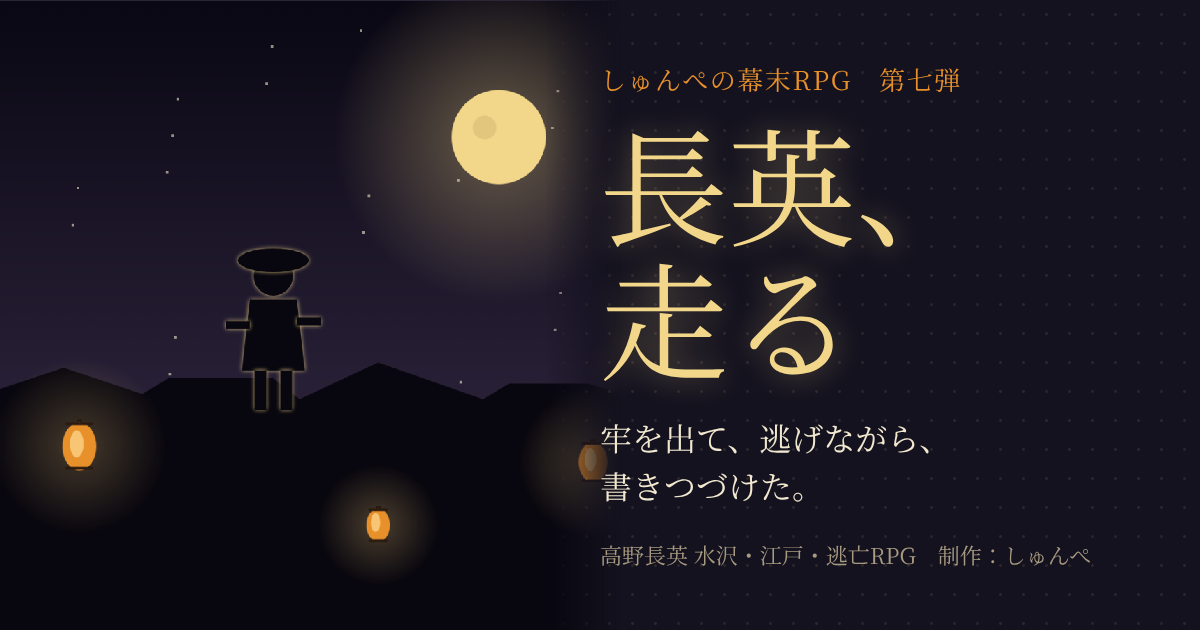
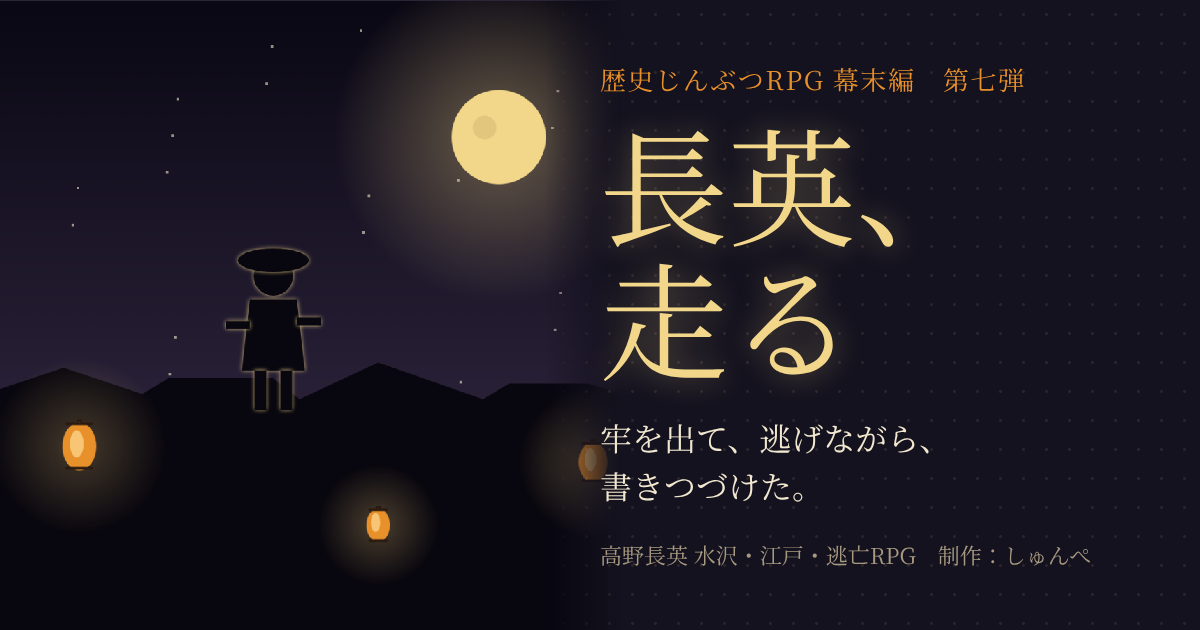
個人LP: シリーズ名を「歴史じんぶつRPG 幕末編」に変更
Claude-Session: https://claude.ai/code/session_01VV3nxnnfC9UHsNKMH7qvfG

Changed region(s): [[0.4933, 0.0905, 0.8633, 0.1508]]

diff --git a/works/index.html b/works/index.html
@@ -4,11 +4,11 @@
 <meta charset="utf-8">
 <meta name="viewport" content="width=device-width,initial-scale=1,viewport-fit=cover">
 <title>制作目録｜しゅんぺ</title>
-<meta name="description" content="群馬県東吾妻町のクリエイター・しゅんぺの制作実績。史実にもとづく幕末RPGシリーズ、群馬・埼玉のご当地ゲーム、縄文・石棒のゲーム、アプリ、書籍など27作品。">
+<meta name="description" content="群馬県東吾妻町のクリエイター・しゅんぺの制作実績。史実にもとづく「歴史じんぶつRPG」シリーズ、群馬・埼玉のご当地ゲーム、縄文・石棒のゲーム、アプリ、書籍など27作品。">
 <meta property="og:type" content="website">
 <meta property="og:site_name" content="しゅんぺ">
 <meta property="og:title" content="しゅんぺ 制作目録">
-<meta property="og:description" content="群馬県東吾妻町のクリエイター・しゅんぺの制作実績。史実にもとづく幕末RPGシリーズ、群馬・埼玉のご当地ゲーム、縄文・石棒のゲーム、アプリ、書籍など27作品。">
+<meta property="og:description" content="群馬県東吾妻町のクリエイター・しゅんぺの制作実績。史実にもとづく「歴史じんぶつRPG」シリーズ、群馬・埼玉のご当地ゲーム、縄文・石棒のゲーム、アプリ、書籍など27作品。">
 <meta property="og:url" content="https://shunpedesu.github.io/works/">
 <meta property="og:image" content="https://shunpedesu.github.io/ogp.png">
 <meta property="og:locale" content="ja_JP">
@@ -88,7 +88,7 @@ html,body{margin:0}
 </div>
 <p style="margin:0 0 8px"><a class="btn main" href="#contact">制作のご相談はこちら ↓</a></p>
 <section class="cat" id="歴史・学び"><div class="cat-head"><h2>歴史・学び</h2><p>史実と創作を分けて書き、出典とふりがなをつけた、学べるゲーム。</p></div>
-<div class="tw"><table><thead><tr><th scope="col">作品</th><th scope="col">形式</th><th scope="col">内容</th><th scope="col">名義</th></tr></thead><tbody><tr><th scope="row"><a href="https://choei-hashiru.vercel.app/" target="_blank" rel="noopener">長英、走る</a><span class="host">choei-hashiru.vercel.app</span></th><td class="fmt">ブラウザRPG</td><td>高野長英の生涯。鳴滝塾でシーボルトに学び、江戸に大観堂をひらき、蛮社の獄で永牢に。牢屋敷の火事から6年の逃亡まで。上州・吾妻と武蔵・大間木の門人も登場<div class="scale">全8章／ミニゲーム4種／出典ページ／ふりがな全文／10問テスト</div></td><td class="by">しゅんぺの幕末RPG 第7弾<div class="when">2026年10月</div></td></tr><tr><th scope="row"><a href="https://hitori-de-tatsu.vercel.app/" target="_blank" rel="noopener">ひとりで、立つ</a><span class="host">hitori-de-tatsu.vercel.app</span></th><td class="fmt">ブラウザRPG</td><td>福沢諭吉の生涯。中津の下級武士の子が適塾の塾頭となり、咸臨丸でアメリカへ、使節団でヨーロッパへ。慶應義塾と『学問のすゝめ』まで<div class="scale">全8章／ミニゲーム4種／出典ページ／ふりがな全文／10問テスト</div></td><td class="by">しゅんぺの幕末RPG 第6弾<div class="when">2026年10月</div></td></tr><tr><th scope="row"><a href="https://inochi-wo-tsunagu.vercel.app/" target="_blank" rel="noopener">いのちを、つなぐ</a><span class="host">inochi-wo-tsunagu.vercel.app</span></th><td class="fmt">ブラウザRPG</td><td>緒方洪庵の生涯。足守の病弱な少年が蘭学を学んで大坂に適塾をひらき、除痘館で種痘を広め、コレラと向きあうまで<div class="scale">全8章／ミニゲーム3種／出典ページ／ふりがな全文／10問テスト</div></td><td class="by">しゅんぺの幕末RPG 第5弾<div class="when">2026年10月</div></td></tr><tr><th scope="row"><a href="https://sensei-no-sensei.vercel.app/" target="_blank" rel="noopener">先生の先生</a><span class="host">sensei-no-sensei.vercel.app</span></th><td class="fmt">ブラウザRPG</td><td>安積艮斎の生涯。郡山の神社の三男が、学僕から江戸の塾・見山楼をひらき、昌平黌の教授としてペリーの国書を訳すまで<div class="scale">全8章／出典ページ／ふりがな全文／10問テスト</div></td><td class="by">しゅんぺの幕末RPG 第4弾<div class="when">2026年10月</div></td></tr><tr><th scope="row"><a href="https://minayoroshi.vercel.app/" target="_blank" rel="noopener">みな、よろし。</a><span class="host">minayoroshi.vercel.app</span></th><td class="fmt">ブラウザRPG</td><td>広瀬淡窓と日田の私塾・咸宜園。素読・試業・月旦評・職任など実際の学び方を体験<div class="scale">全8章／出典ページ／ふりがな全文／10問テスト</div></td><td class="by">しゅんぺの幕末RPG 第3弾<div class="when">2026年10月</div></td></tr><tr><th scope="row"><a href="https://oguri-neji.vercel.app/" target="_blank" rel="noopener">ネジ一本の夢</a><span class="host">oguri-neji.vercel.app</span></th><td class="fmt">ブラウザRPG</td><td>小栗上野介の生涯。遣米使節、横須賀製鉄所、群馬・権田村まで<div class="scale">全8章／出典ページ／ふりがな全文／10問テスト</div></td><td class="by">しゅんぺの幕末RPG 第2弾<div class="when">2026年10月</div></td></tr><tr><th scope="row"><a href="https://shoin-umi-wo-wataru.vercel.app/" target="_blank" rel="noopener">松陰、海をわたる</a><span class="host">shoin-umi-wo-wataru.vercel.app</span></th><td class="fmt">ブラウザRPG</td><td>吉田松陰の生涯と、弟子たちが海をわたるまで。萩、下田の密航、松下村塾、留魂録<div class="scale">全8章／出典ページ／ふりがな全文</div></td><td class="by">しゅんぺの幕末RPG 第1弾<div class="when">2026年10月</div></td></tr><tr><th scope="row"><a href="https://shunpedesu.github.io/bakumatsu-manabi-tabi/" target="_blank" rel="noopener">幕末まなび旅</a><span class="host">shunpedesu.github.io</span></th><td class="fmt">学習アプリ</td><td>幕末の学び舎を歩いてめぐり、当時の子どもと同じやり方で学ぶ追体験アプリ<div class="scale">10の学び舎（松下村塾・適塾・咸宜園・日新館ほか）</div></td><td class="by">しゅんぺ<div class="when">2026年10月</div></td></tr></tbody></table></div></section><section class="cat" id="群馬・地域"><div class="cat-head"><h2>群馬・地域</h2><p>群馬・埼玉の風土を舞台にしたゲーム。チームグンマサイタマゲームでの制作。</p></div>
+<div class="tw"><table><thead><tr><th scope="col">作品</th><th scope="col">形式</th><th scope="col">内容</th><th scope="col">名義</th></tr></thead><tbody><tr><th scope="row"><a href="https://choei-hashiru.vercel.app/" target="_blank" rel="noopener">長英、走る</a><span class="host">choei-hashiru.vercel.app</span></th><td class="fmt">ブラウザRPG</td><td>高野長英の生涯。鳴滝塾でシーボルトに学び、江戸に大観堂をひらき、蛮社の獄で永牢に。牢屋敷の火事から6年の逃亡まで。上州・吾妻と武蔵・大間木の門人も登場<div class="scale">全8章／ミニゲーム4種／出典ページ／ふりがな全文／10問テスト</div></td><td class="by">歴史じんぶつRPG 幕末編 第7弾<div class="when">2026年10月</div></td></tr><tr><th scope="row"><a href="https://hitori-de-tatsu.vercel.app/" target="_blank" rel="noopener">ひとりで、立つ</a><span class="host">hitori-de-tatsu.vercel.app</span></th><td class="fmt">ブラウザRPG</td><td>福沢諭吉の生涯。中津の下級武士の子が適塾の塾頭となり、咸臨丸でアメリカへ、使節団でヨーロッパへ。慶應義塾と『学問のすゝめ』まで<div class="scale">全8章／ミニゲーム4種／出典ページ／ふりがな全文／10問テスト</div></td><td class="by">歴史じんぶつRPG 幕末編 第6弾<div class="when">2026年10月</div></td></tr><tr><th scope="row"><a href="https://inochi-wo-tsunagu.vercel.app/" target="_blank" rel="noopener">いのちを、つなぐ</a><span class="host">inochi-wo-tsunagu.vercel.app</span></th><td class="fmt">ブラウザRPG</td><td>緒方洪庵の生涯。足守の病弱な少年が蘭学を学んで大坂に適塾をひらき、除痘館で種痘を広め、コレラと向きあうまで<div class="scale">全8章／ミニゲーム3種／出典ページ／ふりがな全文／10問テスト</div></td><td class="by">歴史じんぶつRPG 幕末編 第5弾<div class="when">2026年10月</div></td></tr><tr><th scope="row"><a href="https://sensei-no-sensei.vercel.app/" target="_blank" rel="noopener">先生の先生</a><span class="host">sensei-no-sensei.vercel.app</span></th><td class="fmt">ブラウザRPG</td><td>安積艮斎の生涯。郡山の神社の三男が、学僕から江戸の塾・見山楼をひらき、昌平黌の教授としてペリーの国書を訳すまで<div class="scale">全8章／出典ページ／ふりがな全文／10問テスト</div></td><td class="by">歴史じんぶつRPG 幕末編 第4弾<div class="when">2026年10月</div></td></tr><tr><th scope="row"><a href="https://minayoroshi.vercel.app/" target="_blank" rel="noopener">みな、よろし。</a><span class="host">minayoroshi.vercel.app</span></th><td class="fmt">ブラウザRPG</td><td>広瀬淡窓と日田の私塾・咸宜園。素読・試業・月旦評・職任など実際の学び方を体験<div class="scale">全8章／出典ページ／ふりがな全文／10問テスト</div></td><td class="by">歴史じんぶつRPG 幕末編 第3弾<div class="when">2026年10月</div></td></tr><tr><th scope="row"><a href="https://oguri-neji.vercel.app/" target="_blank" rel="noopener">ネジ一本の夢</a><span class="host">oguri-neji.vercel.app</span></th><td class="fmt">ブラウザRPG</td><td>小栗上野介の生涯。遣米使節、横須賀製鉄所、群馬・権田村まで<div class="scale">全8章／出典ページ／ふりがな全文／10問テスト</div></td><td class="by">歴史じんぶつRPG 幕末編 第2弾<div class="when">2026年10月</div></td></tr><tr><th scope="row"><a href="https://shoin-umi-wo-wataru.vercel.app/" target="_blank" rel="noopener">松陰、海をわたる</a><span class="host">shoin-umi-wo-wataru.vercel.app</span></th><td class="fmt">ブラウザRPG</td><td>吉田松陰の生涯と、弟子たちが海をわたるまで。萩、下田の密航、松下村塾、留魂録<div class="scale">全8章／出典ページ／ふりがな全文</div></td><td class="by">歴史じんぶつRPG 幕末編 第1弾<div class="when">2026年10月</div></td></tr><tr><th scope="row"><a href="https://shunpedesu.github.io/bakumatsu-manabi-tabi/" target="_blank" rel="noopener">幕末まなび旅</a><span class="host">shunpedesu.github.io</span></th><td class="fmt">学習アプリ</td><td>幕末の学び舎を歩いてめぐり、当時の子どもと同じやり方で学ぶ追体験アプリ<div class="scale">10の学び舎（松下村塾・適塾・咸宜園・日新館ほか）</div></td><td class="by">しゅんぺ<div class="when">2026年10月</div></td></tr></tbody></table></div></section><section class="cat" id="群馬・地域"><div class="cat-head"><h2>群馬・地域</h2><p>群馬・埼玉の風土を舞台にしたゲーム。チームグンマサイタマゲームでの制作。</p></div>
 <div class="tw"><table><thead><tr><th scope="col">作品</th><th scope="col">形式</th><th scope="col">内容</th><th scope="col">名義</th></tr></thead><tbody><tr><th scope="row"><a href="https://gunma-monsters.vercel.app/lp.html" target="_blank" rel="noopener">群馬モンスターズ</a><span class="host">gunma-monsters.vercel.app</span></th><td class="fmt">位置情報ゲーム（ブラウザ）</td><td>GPSを使い、群馬で深くなるモンスター収集ゲーム<div class="scale">120体／アプリ不要・無料／直近30日 127人・269ページビュー</div></td><td class="by">チームグンマサイタマゲーム（企画・実装・発信）</td></tr><tr><th scope="row"><a href="https://shunpedesu.github.io/karakkaze-lp/" target="_blank" rel="noopener">からっかぜの夜 ～四万温泉に集いし者たち</a><span class="host">shunpedesu.github.io</span></th><td class="fmt">サウンドノベル</td><td>大雪で孤立した四万温泉の旅館を舞台にした密室ミステリー<div class="scale">登場人物8人／plicy 329プレイ</div></td><td class="by">チームグンマサイタマゲーム（企画・実装・発信）</td></tr><tr><th scope="row"><a href="https://shunpedesu.github.io/gunma-hazard/lp/" target="_blank" rel="noopener">GUNMA HAZARD</a><span class="host">shunpedesu.github.io</span></th><td class="fmt">ホラー謎解きゲーム</td><td>群馬の廃旅館から、上毛かるたクイズを解いて脱出<div class="scale">上毛かるた</div></td><td class="by">チームグンマサイタマゲーム（企画・実装・発信）</td></tr></tbody></table></div></section><section class="cat" id="縄文・石棒"><div class="cat-head"><h2>縄文・石棒</h2><p>石棒クラブの公式メンバーとして、縄文の石棒をテーマにつくったゲームとアプリ。</p></div>
 <div class="tw"><table><thead><tr><th scope="col">作品</th><th scope="col">形式</th><th scope="col">内容</th><th scope="col">名義</th></tr></thead><tbody><tr><th scope="row"><a href="https://sekibo-otodoke-lp.vercel.app/" target="_blank" rel="noopener">石棒おとどけ道中</a><span class="host">sekibo-otodoke-lp.vercel.app</span></th><td class="fmt">ブラウザゲーム</td><td>原石をひろい、石棒をつくり、縄文のムラへ届けるアクション<div class="scale">1074本をおとどけ</div></td><td class="by">しゅんぺ</td></tr><tr><th scope="row"><a href="https://shunpedesu.github.io/sekibo-scanner/lp/" target="_blank" rel="noopener">石棒スキャナー</a><span class="host">shunpedesu.github.io</span></th><td class="fmt">ブラウザアプリ</td><td>身の回りのバーコードをスキャンして縄文の遺物を発掘<div class="scale">全211種</div></td><td class="by">しゅんぺ</td></tr><tr><th scope="row"><a href="https://kakera-no-tabi-lp.vercel.app/" target="_blank" rel="noopener">かけらの旅</a><span class="host">kakera-no-tabi-lp.vercel.app</span></th><td class="fmt">ブラウザRPG</td><td>博物館で目を覚ましたこどもが、なくしたかけらを返しに夜を旅する<div class="scale">全14章／直近30日 33人・131ページビュー</div></td><td class="by">しゅんぺ</td></tr><tr><th scope="row"><a href="https://plicy.net/User/59668" target="_blank" rel="noopener">5分で縄文人！石棒をつくろう！ ほか4作</a><span class="host">plicy.net</span></th><td class="fmt">ブラウザゲーム</td><td>セキボウタイピング、セキボトリス、あゆのぼうけん、せきぼうにたくせきぼう<div class="scale">計5作／plicy 累計5,633プレイ</div></td><td class="by">しゅんぺ</td></tr></tbody></table></div></section><section class="cat" id="暮らし・1ミリ"><div class="cat-head"><h2>暮らし・1ミリ</h2><p>「人生を1ミリだけ動かす」をテーマにした、日々の道具。</p></div>
 <div class="tw"><table><thead><tr><th scope="col">作品</th><th scope="col">形式</th><th scope="col">内容</th><th scope="col">名義</th></tr></thead><tbody><tr><th scope="row"><a href="https://1mm-piano.vercel.app/" target="_blank" rel="noopener">1mm PIANO</a><span class="host">1mm-piano.vercel.app</span></th><td class="fmt">ピアノアプリ</td><td>左手でコード、右手でメロディー<div class="scale">広告・ログイン・アクセス解析なし</div></td><td class="by">人生1ミリ研究所</td></tr><tr><th scope="row"><a href="https://shunpedesu.github.io/kyou-no-1mm-lp/" target="_blank" rel="noopener">今日の1ミリ</a><span class="host">shunpedesu.github.io</span></th><td class="fmt">記録アプリ</td><td>スマホを置いて、1ミリを記録する</td><td class="by">人生1ミリ研究所</td></tr><tr><th scope="row"><a href="https://ant-colony-app.vercel.app/" target="_blank" rel="noopener">アリコロニー研究室</a><span class="host">ant-colony-app.vercel.app</span></th><td class="fmt">観察アプリ</td><td>操作なし。アリの群れを観察する</td><td class="by">人生1ミリ研究所</td></tr><tr><th scope="row"><a href="https://shu-chu-chu.vercel.app/app/" target="_blank" rel="noopener">シュウチュウチュウ</a><span class="host">shu-chu-chu.vercel.app</span></th><td class="fmt">集中支援アプリ（PWA）</td><td>18分ごとに背中を押してくれる集中力継続アプリ<div class="scale">休憩は強制しない設計</div></td><td class="by">しゅんぺ</td></tr><tr><th scope="row"><a href="https://samurai-reply-lp.vercel.app/" target="_blank" rel="noopener">Samurai Reply</a><span class="host">samurai-reply-lp.vercel.app</span></th><td class="fmt">AIアプリ</td><td>返信メッセージをAIが代わりに書く<div class="scale">5キャラクター</div></td><td class="by">しゅんぺ</td></tr></tbody></table></div></section><section class="cat" id="本・映像"><div class="cat-head"><h2>本・映像</h2><p>書籍とミュージックビデオ。</p></div>
@@ -109,7 +109,7 @@ html,body{margin:0}
 </section>
 <footer>
 <span>石棒クラブ公式メンバー（飛騨みやがわ考古民俗館と協働）。チームグンマサイタマゲーム主宰。</span>
-<span>トップ：<a href="/">shunpedesu.github.io</a>　／　シリーズ：<a href="https://shunpe-bakumatsu-rpg.vercel.app/" target="_blank" rel="noopener">しゅんぺの幕末RPG</a>　／　note：<a href="https://note.com/shunpedesu" target="_blank" rel="noopener">note.com/shunpedesu</a></span>
+<span>トップ：<a href="/">shunpedesu.github.io</a>　／　シリーズ：<a href="https://shunpe-bakumatsu-rpg.vercel.app/" target="_blank" rel="noopener">歴史じんぶつRPG 幕末編</a>　／　note：<a href="https://note.com/shunpedesu" target="_blank" rel="noopener">note.com/shunpedesu</a></span>
 <span>数字の出典：プレイ数は plicy の公開値（2026年10月21日時点）、訪問者数は Vercel Web Analytics（2026年9月21日〜10月21日）。</span>
 <span>2026年10月時点</span>
 </footer>

diff --git a/index.html b/index.html
@@ -73,14 +73,14 @@
       <div class="group">
         <h3 class="group__label reveal">作品</h3>
         <p style="margin-top:0" class="project__more reveal">
-          <a href="https://shunpe-bakumatsu-rpg.vercel.app/" target="_blank" rel="noopener noreferrer">シリーズ「しゅんぺの幕末RPG」のページを見る <span aria-hidden="true">&rarr;</span></a>
+          <a href="https://shunpe-bakumatsu-rpg.vercel.app/" target="_blank" rel="noopener noreferrer">シリーズ「歴史じんぶつRPG 幕末編」のページを見る <span aria-hidden="true">&rarr;</span></a>
         </p>
         <div class="cards">
           <article class="card reveal">
             <img class="card__thumb" src="img/choei-hashiru.png" alt="長英、走る" loading="lazy" />
             <div class="card__body">
               <h4 class="card__title">長英、走る</h4>
-              <p class="card__desc">しゅんぺの幕末RPG 第7弾。高野長英が主人公。水沢に生まれ、鳴滝塾でシーボルトに学び、江戸に塾・大観堂をひらき、蛮社の獄で永牢に。牢屋敷の火事から6年の逃亡までを史実どおりにたどるファミコン風RPG。上州・吾妻の門人たちも登場。</p>
+              <p class="card__desc">歴史じんぶつRPG 幕末編 第7弾。高野長英が主人公。水沢に生まれ、鳴滝塾でシーボルトに学び、江戸に塾・大観堂をひらき、蛮社の獄で永牢に。牢屋敷の火事から6年の逃亡までを史実どおりにたどるファミコン風RPG。上州・吾妻の門人たちも登場。</p>
               <div class="card__actions">
                 <a class="btn" href="https://choei-hashiru.vercel.app/" target="_blank" rel="noopener noreferrer">遊んでみる<span aria-hidden="true">&rarr;</span></a>
               </div>
@@ -90,7 +90,7 @@
             <img class="card__thumb" src="img/hitori-de-tatsu.png" alt="ひとりで、立つ" loading="lazy" />
             <div class="card__body">
               <h4 class="card__title">ひとりで、立つ</h4>
-              <p class="card__desc">しゅんぺの幕末RPG 第6弾。福沢諭吉が主人公。中津の下級武士の子が適塾の塾頭となり、横浜で英語に出会い、咸臨丸でアメリカへ、使節団でヨーロッパへ。慶應義塾と『学問のすゝめ』まで史実どおりにたどるファミコン風RPG。ミニゲーム4つ。</p>
+              <p class="card__desc">歴史じんぶつRPG 幕末編 第6弾。福沢諭吉が主人公。中津の下級武士の子が適塾の塾頭となり、横浜で英語に出会い、咸臨丸でアメリカへ、使節団でヨーロッパへ。慶應義塾と『学問のすゝめ』まで史実どおりにたどるファミコン風RPG。ミニゲーム4つ。</p>
               <div class="card__actions">
                 <a class="btn" href="https://hitori-de-tatsu.vercel.app/" target="_blank" rel="noopener noreferrer">遊んでみる<span aria-hidden="true">&rarr;</span></a>
               </div>
@@ -100,7 +100,7 @@
             <img class="card__thumb" src="img/inochi-wo-tsunagu.png" alt="いのちを、つなぐ" loading="lazy" />
             <div class="card__body">
               <h4 class="card__title">いのちを、つなぐ</h4>
-              <p class="card__desc">しゅんぺの幕末RPG 第5弾。緒方洪庵が主人公。体の弱い少年が蘭学を学んで大坂に適塾をひらき、除痘館で種痘を広め、コレラと向きあうまでを史実どおりにたどるファミコン風RPG。苗リレーなどのミニゲームつき。</p>
+              <p class="card__desc">歴史じんぶつRPG 幕末編 第5弾。緒方洪庵が主人公。体の弱い少年が蘭学を学んで大坂に適塾をひらき、除痘館で種痘を広め、コレラと向きあうまでを史実どおりにたどるファミコン風RPG。苗リレーなどのミニゲームつき。</p>
               <div class="card__actions">
                 <a class="btn" href="https://inochi-wo-tsunagu.vercel.app/" target="_blank" rel="noopener noreferrer">遊んでみる<span aria-hidden="true">&rarr;</span></a>
               </div>
@@ -110,7 +110,7 @@
             <img class="card__thumb" src="img/sensei-no-sensei.png" alt="先生の先生" loading="lazy" />
             <div class="card__body">
               <h4 class="card__title">先生の先生</h4>
-              <p class="card__desc">しゅんぺの幕末RPG 第4弾。安積艮斎が主人公。郡山の神社に生まれた三男が、学僕から江戸の塾・見山楼をひらき、昌平黌の教授としてペリーの国書を訳すまでを史実どおりにたどるファミコン風RPG。</p>
+              <p class="card__desc">歴史じんぶつRPG 幕末編 第4弾。安積艮斎が主人公。郡山の神社に生まれた三男が、学僕から江戸の塾・見山楼をひらき、昌平黌の教授としてペリーの国書を訳すまでを史実どおりにたどるファミコン風RPG。</p>
               <div class="card__actions">
                 <a class="btn" href="https://sensei-no-sensei.vercel.app/" target="_blank" rel="noopener noreferrer">遊んでみる<span aria-hidden="true">&rarr;</span></a>
               </div>
@@ -120,7 +120,7 @@
             <img class="card__thumb" src="img/minayoroshi.png" alt="みな、よろし。" loading="lazy" />
             <div class="card__body">
               <h4 class="card__title">みな、よろし。</h4>
-              <p class="card__desc">しゅんぺの幕末RPG 第3弾。広瀬淡窓が主人公。年齢も学歴も身分も問わない日田の私塾・咸宜園の学びを、塾生のひとりとして体験するファミコン風RPG。</p>
+              <p class="card__desc">歴史じんぶつRPG 幕末編 第3弾。広瀬淡窓が主人公。年齢も学歴も身分も問わない日田の私塾・咸宜園の学びを、塾生のひとりとして体験するファミコン風RPG。</p>
               <div class="card__actions">
                 <a class="btn" href="https://minayoroshi.vercel.app/" target="_blank" rel="noopener noreferrer">遊んでみる<span aria-hidden="true">&rarr;</span></a>
               </div>
@@ -130,7 +130,7 @@
             <img class="card__thumb" src="img/oguri-neji.png" alt="ネジ一本の夢" loading="lazy" />
             <div class="card__body">
               <h4 class="card__title">ネジ一本の夢</h4>
-              <p class="card__desc">しゅんぺの幕末RPG 第2弾。小栗上野介が主人公。遣米使節、横須賀製鉄所、群馬・権田村まで、最後まで史実どおりにたどるファミコン風RPG。</p>
+              <p class="card__desc">歴史じんぶつRPG 幕末編 第2弾。小栗上野介が主人公。遣米使節、横須賀製鉄所、群馬・権田村まで、最後まで史実どおりにたどるファミコン風RPG。</p>
               <div class="card__actions">
                 <a class="btn" href="https://oguri-neji.vercel.app/" target="_blank" rel="noopener noreferrer">遊んでみる<span aria-hidden="true">&rarr;</span></a>
               </div>
@@ -140,7 +140,7 @@
             <img class="card__thumb" src="img/shoin-umi-wo-wataru.png" alt="松陰、海をわたる" loading="lazy" />
             <div class="card__body">
               <h4 class="card__title">松陰、海をわたる</h4>
-              <p class="card__desc">しゅんぺの幕末RPG 第1弾。吉田松陰が主人公。萩の少年時代から下田の密航、松下村塾、留魂録まで。言葉で心をひらく問答バトルのファミコン風RPG。</p>
+              <p class="card__desc">歴史じんぶつRPG 幕末編 第1弾。吉田松陰が主人公。萩の少年時代から下田の密航、松下村塾、留魂録まで。言葉で心をひらく問答バトルのファミコン風RPG。</p>
               <div class="card__actions">
                 <a class="btn" href="https://shoin-umi-wo-wataru.vercel.app/" target="_blank" rel="noopener noreferrer">遊んでみる<span aria-hidden="true">&rarr;</span></a>
               </div>
